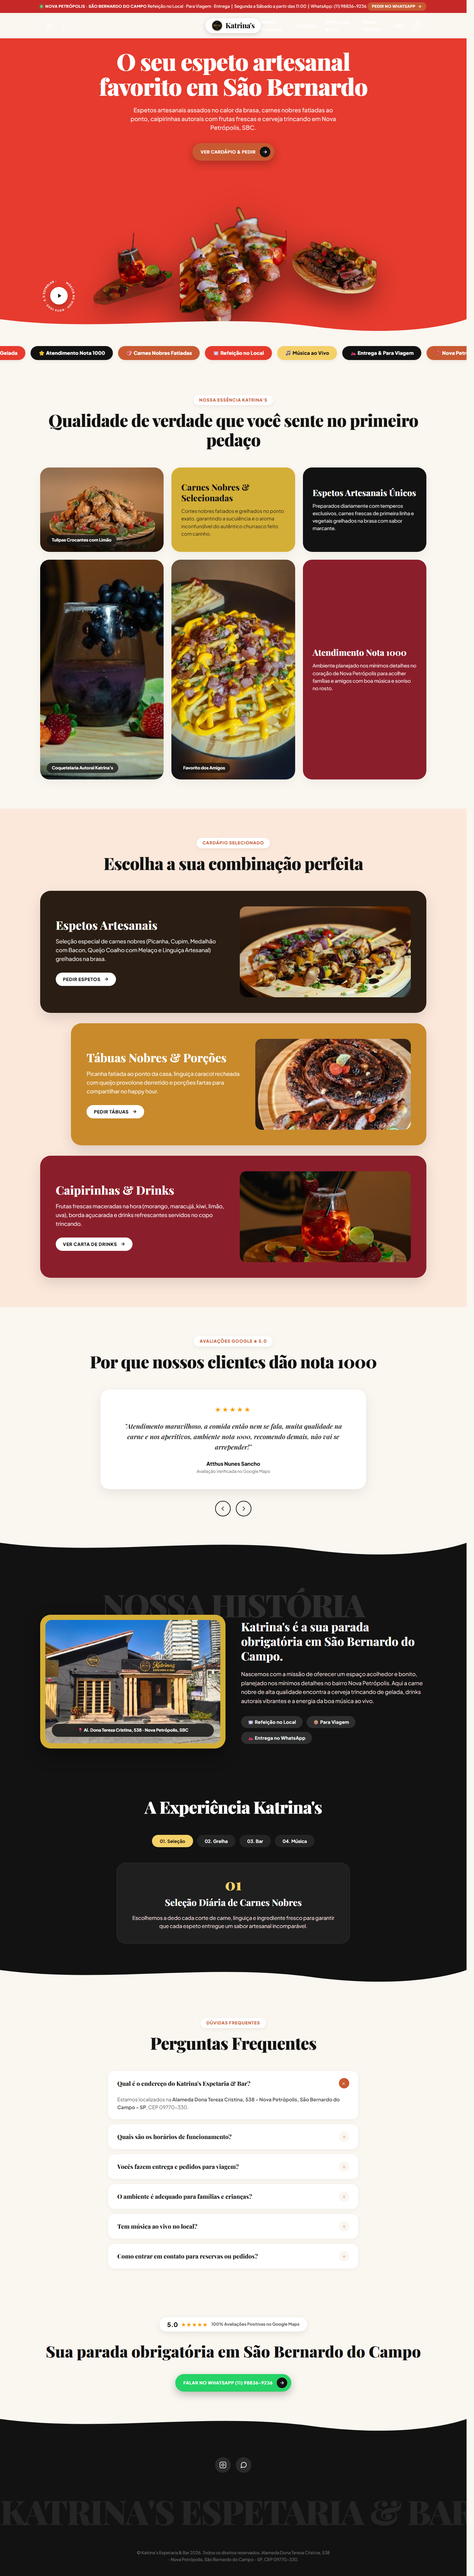
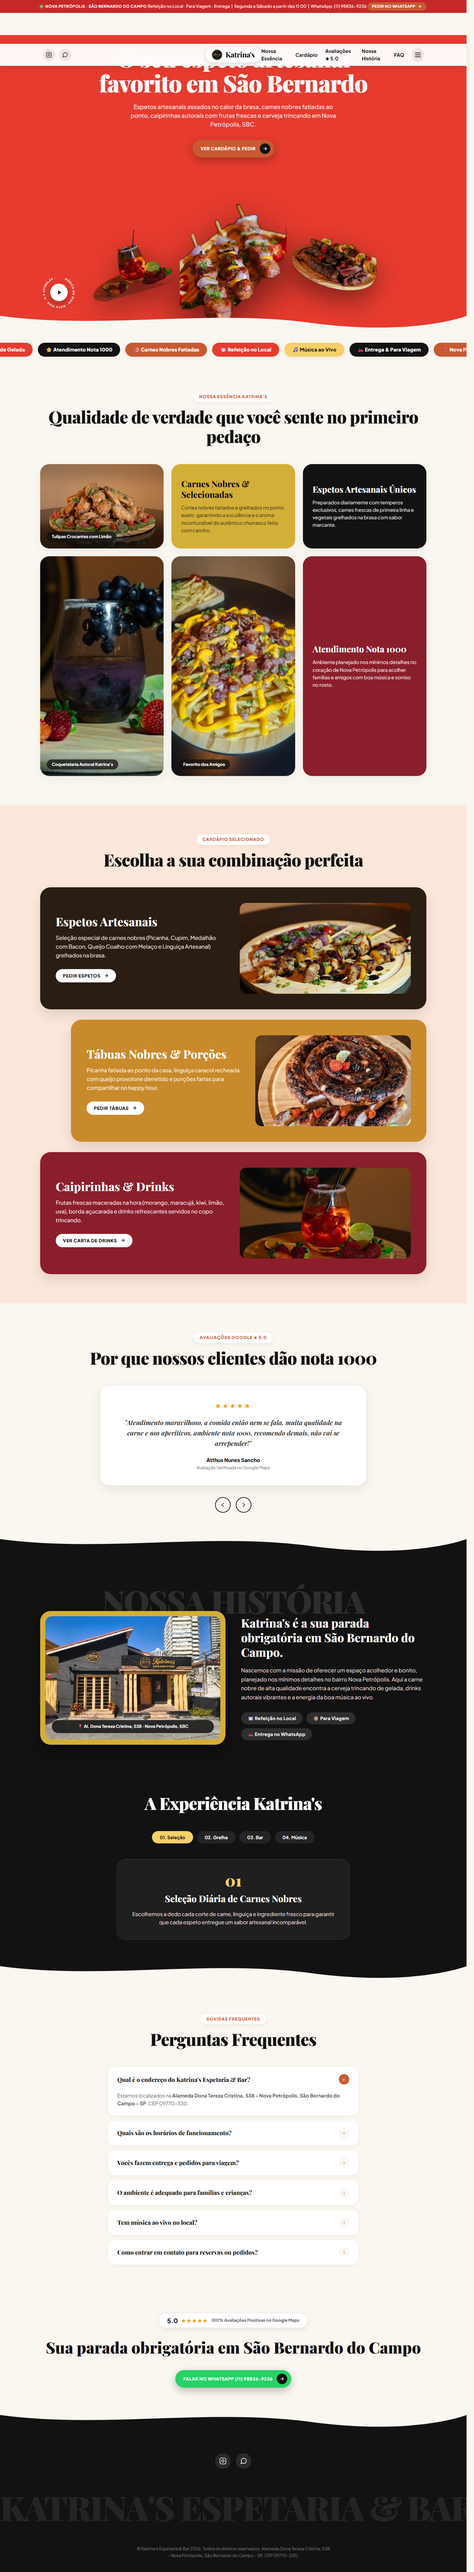
fix: navbar text contrast on scroll with dark text on white glass background

diff --git a/css/style.css b/css/style.css
@@ -196,14 +196,25 @@ button {
 }
 
 /* --------------------------------------------------------------------------
-   04. REFERENCE-FIDELITY NAVBAR
+   04. REFERENCE-FIDELITY NAVBAR & STICKY SCROLL CONTRAST HANDLER
    -------------------------------------------------------------------------- */
 .navbar-header {
-  position: relative;
+  position: sticky;
+  top: 0;
   width: 100%;
-  z-index: 90;
+  z-index: 999;
   padding: 16px 0;
   background-color: transparent;
+  transition: background-color 0.35s ease, padding 0.35s ease, box-shadow 0.35s ease;
+}
+
+/* Sticky Scrolled State with Ultra High Contrast */
+.navbar-header.scrolled {
+  background: rgba(255, 255, 255, 0.96);
+  backdrop-filter: blur(12px);
+  -webkit-backdrop-filter: blur(12px);
+  box-shadow: 0 4px 20px rgba(0, 0, 0, 0.1);
+  padding: 10px 0;
 }
 
 .navbar-container {
@@ -231,7 +242,7 @@ button {
   align-items: center;
   justify-content: center;
   color: var(--text-white);
-  transition: background 0.3s ease, transform 0.3s ease;
+  transition: background 0.3s ease, color 0.3s ease, transform 0.3s ease;
 }
 
 .nav-social-icon:hover {
@@ -244,6 +255,17 @@ button {
   height: 18px;
 }
 
+/* Scrolled Nav Social Icons */
+.navbar-header.scrolled .nav-social-icon {
+  background: rgba(18, 18, 18, 0.08);
+  color: #121212;
+}
+
+.navbar-header.scrolled .nav-social-icon:hover {
+  background: var(--bg-hero-vibrant);
+  color: #FFFFFF;
+}
+
 .nav-logo-badge {
   display: flex;
   align-items: center;
@@ -253,6 +275,7 @@ button {
   padding: 6px 20px;
   border-radius: 100px;
   box-shadow: 0 4px 16px rgba(0, 0, 0, 0.15);
+  border: 1px solid rgba(0, 0, 0, 0.06);
   transition: transform 0.3s ease, box-shadow 0.3s ease;
 }
 
@@ -271,7 +294,7 @@ button {
   font-family: var(--font-heading);
   font-size: 1.4rem;
   font-weight: 800;
-  color: #121212;
+  color: #121212; /* ALWAYS DARK READABLE TEXT ON WHITE LOGO PILL */
   letter-spacing: -0.02em;
 }
 
@@ -290,12 +313,24 @@ button {
 
 .nav-item {
   font-size: 0.9375rem;
-  font-weight: 600;
-  color: var(--text-white);
+  font-weight: 700;
+  color: var(--text-white); /* White text on red hero */
+  text-shadow: 0 1px 3px rgba(0, 0, 0, 0.2);
+  transition: color 0.3s ease;
 }
 
 .nav-item:hover {
   color: var(--color-gold);
+}
+
+/* Scrolled Nav Links (DARK READABLE TEXT ON WHITE SCROLLED NAVBAR) */
+.navbar-header.scrolled .nav-item {
+  color: #121212;
+  text-shadow: none;
+}
+
+.navbar-header.scrolled .nav-item:hover {
+  color: var(--bg-hero-vibrant);
 }
 
 .hamburger-btn {
@@ -320,6 +355,16 @@ button {
   height: 2px;
   background-color: var(--text-white);
   border-radius: 2px;
+  transition: background-color 0.3s ease;
+}
+
+/* Scrolled Hamburger Button */
+.navbar-header.scrolled .hamburger-btn {
+  background: rgba(18, 18, 18, 0.08);
+}
+
+.navbar-header.scrolled .hamburger-btn .bar {
+  background-color: #121212;
 }
 
 /* --------------------------------------------------------------------------
@@ -1283,6 +1328,7 @@ button {
 @media (max-width: 768px) {
   .announcement-banner { display: none; }
   .navbar-header { padding: 12px 0; }
+  .navbar-header.scrolled { padding: 8px 0; }
   .navbar-container { padding: 0 16px; grid-template-columns: auto 1fr auto; }
   .nav-socials-left { display: none; }
   .badge-brand-name { font-size: 1.15rem; }

diff --git a/js/main.js b/js/main.js
@@ -4,7 +4,21 @@
 
 document.addEventListener('DOMContentLoaded', () => {
 
-  // 1. GSAP Hero Entrance
+  // 1. Sticky Scroll Navbar Handler (Fixes white-on-white text contrast on scroll)
+  const navbar = document.getElementById('navbar');
+  if (navbar) {
+    const handleScroll = () => {
+      if (window.scrollY > 40) {
+        navbar.classList.add('scrolled');
+      } else {
+        navbar.classList.remove('scrolled');
+      }
+    };
+    window.addEventListener('scroll', handleScroll, { passive: true });
+    handleScroll(); // Initial check
+  }
+
+  // 2. GSAP Hero Entrance
   if (typeof gsap !== 'undefined') {
     const tl = gsap.timeline({ defaults: { ease: 'power3.out' } });
     tl.from('.hero-headline', { opacity: 0, y: 30, duration: 0.9, delay: 0.1 })
@@ -16,7 +30,7 @@ document.addEventListener('DOMContentLoaded', () => {
       .from('.floating-marquee-badge', { opacity: 0, scale: 0.6, duration: 0.7 }, '-=0.5');
   }
 
-  // 2. Testimonial Carousel Handler
+  // 3. Testimonial Carousel Handler
   const testimonialCards = document.querySelectorAll('.testimonial-card');
   const prevBtn = document.getElementById('prevReview');
   const nextBtn = document.getElementById('nextReview');
@@ -40,7 +54,7 @@ document.addEventListener('DOMContentLoaded', () => {
     });
   }
 
-  // 3. Interactive Timeline Step Switcher
+  // 4. Interactive Timeline Step Switcher
   const nodeBtns = document.querySelectorAll('.node-btn');
   const timelineData = [
     { num: '01', title: 'Seleção Diária de Carnes Nobres', desc: 'Escolhemos a dedo cada corte de carne, linguiça e ingrediente fresco para garantir que cada espeto entregue um sabor artesanal incomparável.' },
@@ -67,7 +81,7 @@ document.addEventListener('DOMContentLoaded', () => {
     });
   });
 
-  // 4. FAQ Accordion Handler
+  // 5. FAQ Accordion Handler
   const faqItems = document.querySelectorAll('.faq-item');
   faqItems.forEach(item => {
     const questionBtn = item.querySelector('.faq-question');
@@ -80,7 +94,7 @@ document.addEventListener('DOMContentLoaded', () => {
     });
   });
 
-  // 5. Hamburger Button Mobile Menu
+  // 6. Hamburger Button Mobile Menu
   const hamburgerBtn = document.getElementById('hamburgerBtn');
   if (hamburgerBtn) {
     hamburgerBtn.addEventListener('click', () => {
